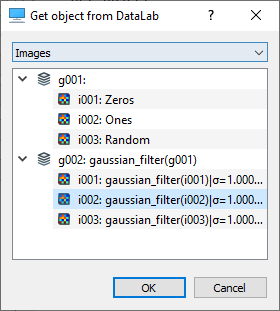
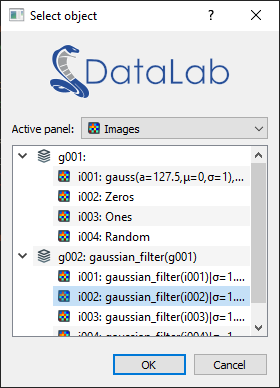
Added french translation

Changed region(s): [[0.0, 0.0, 1.0, 1.0], [0.8857, 0.0289, 0.9429, 0.0579], [0.7429, 0.0289, 0.7714, 0.0579]]

diff --git a/cdlclient/widgets/objectdialog.py b/cdlclient/widgets/objectdialog.py
@@ -25,8 +25,9 @@ from qtpy import QtCore as QC
 from qtpy import QtGui as QG
 from qtpy import QtWidgets as QW
 
-from cdlclient.widgets import svg_icons
-from cdlclient.widgets.qthelpers import block_signals, svgtext_to_icon
+from cdlclient.config import _
+from cdlclient.qthelpers import block_signals, svgtext_to_icon
+from cdlclient.widgets import datalab_banner, svg_icons
 
 if TYPE_CHECKING:  # pragma: no cover
     from cdlclient import SimpleRemoteProxy
@@ -164,27 +165,47 @@ class GetObjectDialog(QW.QDialog):
     def __init__(
         self,
         parent: QW.QWidget,
-        title: str,
         proxy: SimpleRemoteProxy,
+        title: str | None = None,
     ) -> None:
         super().__init__(parent)
         self.__proxy = proxy
         self.__current_object_uuid: str | None = None
-        self.setWindowTitle(title)
+        self.setWindowTitle(_("Select object") if title is None else title)
         vlayout = QW.QVBoxLayout()
         self.setLayout(vlayout)
 
+        logo_label = QW.QLabel()
+        pixmap = QG.QPixmap()
+        pixmap.loadFromData(QC.QByteArray.fromBase64(datalab_banner.DATA))
+        logo_label.setPixmap(pixmap)
+        logo_label.setAlignment(QC.Qt.AlignCenter)
+
+        panelgroup = QW.QWidget()
+        panellayout = QW.QHBoxLayout()
+        panellayout.setContentsMargins(0, 0, 0, 0)
+        # panellayout.setAlignment(QC.Qt.AlignCenter)
+        panelgroup.setLayout(panellayout)
+
         panelcombo = QW.QComboBox()
-        panelcombo.addItems(["Signals", "Images"])
+        panelcombo.addItem(svgtext_to_icon(svg_icons.SIGNAL), _("Signals"))
+        panelcombo.addItem(svgtext_to_icon(svg_icons.IMAGE), _("Images"))
         panelcombo.setCurrentIndex(0 if proxy.get_current_panel() == "signal" else 1)
         panelcombo.currentIndexChanged.connect(self.__change_panel)
+
+        panellabel = QW.QLabel(_("Active panel:"))
+        panellayout.addWidget(panellabel)
+        panellayout.addWidget(panelcombo)
+        panellayout.setStretch(1, 1)
 
         self.tree = SimpleObjectTree(parent)
         self.tree.init_from(proxy)
         self.tree.SIG_ITEM_DOUBLECLICKED.connect(lambda oid: self.accept())
         self.tree.itemSelectionChanged.connect(self.current_object_changed)
 
-        vlayout.addWidget(panelcombo)
+        vlayout.addWidget(logo_label)
+        vlayout.addSpacing(10)
+        vlayout.addWidget(panelgroup)
         vlayout.addWidget(self.tree)
 
         bbox = QW.QDialogButtonBox(QW.QDialogButtonBox.Ok | QW.QDialogButtonBox.Cancel)
@@ -209,5 +230,6 @@ class GetObjectDialog(QW.QDialog):
     def current_object_changed(self) -> None:
         """Item selection has changed"""
         self.__current_object_uuid = self.tree.get_current_item_id()
+        self.ok_btn.setEnabled(bool(self.__current_object_uuid))
         self.ok_btn.setEnabled(bool(self.__current_object_uuid))
         self.ok_btn.setEnabled(bool(self.__current_object_uuid))

diff --git a/cdlclient/widgets/connection.py b/cdlclient/widgets/connection.py
@@ -21,10 +21,11 @@ from qtpy import QtCore as QC
 from qtpy import QtGui as QG
 from qtpy import QtWidgets as QW
 
+from cdlclient.config import _
 from cdlclient.widgets import datalab_banner
 
 
-class DataLabConnectionThread(QC.QThread):
+class ConnectionThread(QC.QThread):
     """DataLab Connection thread"""
 
     SIG_CONNECTION_OK = QC.Signal()
@@ -54,7 +55,7 @@ class ConnectionDialog(QW.QDialog):
     def __init__(self, connect_callback: Callable, parent: QW.QWidget = None) -> None:
         super().__init__(parent)
         win32_fix_title_bar_background(self)
-        self.setWindowTitle("Connection to DataLab")
+        self.setWindowTitle(_("Connection to DataLab"))
         self.resize(300, 50)
         self.host_label = QW.QLabel()
         pixmap = QG.QPixmap()
@@ -66,7 +67,7 @@ class ConnectionDialog(QW.QDialog):
         status = QW.QWidget()
         status_layout = QW.QHBoxLayout()
         status.setLayout(status_layout)
-        self.status_label = QW.QLabel("Waiting for connection...")
+        self.status_label = QW.QLabel(_("Waiting for connection..."))
         self.status_icon = QW.QLabel()
         status_layout.addWidget(self.status_icon)
         status_layout.addWidget(self.status_label)
@@ -77,7 +78,7 @@ class ConnectionDialog(QW.QDialog):
         layout.addWidget(self.progress_bar)
         layout.addWidget(status)
         self.setLayout(layout)
-        self.thread = DataLabConnectionThread(connect_callback)
+        self.thread = ConnectionThread(connect_callback)
         self.thread.SIG_CONNECTION_OK.connect(self.on_connection_successful)
         self.thread.SIG_CONNECTION_KO.connect(self.on_connection_failed)
         button_box = QW.QDialogButtonBox(QW.QDialogButtonBox.Cancel)
@@ -97,7 +98,7 @@ class ConnectionDialog(QW.QDialog):
         """Connect to server"""
         self.progress_bar.setRange(0, 0)
         self.set_status_icon("BrowserReload")
-        self.status_label.setText("Connecting to server...")
+        self.status_label.setText(_("Connecting to server..."))
         self.thread.start()
 
     def on_connection_successful(self) -> None:
@@ -105,7 +106,7 @@ class ConnectionDialog(QW.QDialog):
         self.progress_bar.setRange(0, 1)
         self.progress_bar.setValue(1)
         self.set_status_icon("DialogApplyButton")
-        self.status_label.setText("Connection successful!")
+        self.status_label.setText(_("Connection successful!"))
         QC.QTimer.singleShot(1000, self.accept)
 
     def on_connection_failed(self) -> None:
@@ -113,7 +114,7 @@ class ConnectionDialog(QW.QDialog):
         self.progress_bar.setRange(0, 1)
         self.progress_bar.setValue(1)
         self.set_status_icon("MessageBoxCritical")
-        self.status_label.setText("Connection failed.")
+        self.status_label.setText(_("Connection failed."))
         QC.QTimer.singleShot(2000, self.reject)
 
 

diff --git a/cdlclient/tests/remoteclient_base.py b/cdlclient/tests/remoteclient_base.py
@@ -16,6 +16,8 @@ from guidata.qthelpers import get_std_icon, win32_fix_title_bar_background
 from guidata.widgets.codeeditor import CodeEditor
 from qtpy import QtWidgets as QW
 
+from cdlclient.config import _
+
 
 class HostWidget(QW.QWidget):
     """Host widget: menu with action buttons, log viewer"""
@@ -83,7 +85,7 @@ class AbstractClientWindow(QW.QMainWindow, metaclass=AbstractClientWindowMeta):
     def __init__(self):
         super().__init__()
         win32_fix_title_bar_background(self)
-        self.setWindowTitle("Host application")
+        self.setWindowTitle(_("Host application"))
         self.setWindowIcon(get_std_icon("ComputerIcon"))
         self.cdl = None  # CDLMainWindow instance
         self.host = HostWidget(self)
@@ -110,12 +112,12 @@ class AbstractClientWindow(QW.QMainWindow, metaclass=AbstractClientWindowMeta):
         self.host.add_label(self.PURPOSE)
         add_btn = self.host.add_button
         add_btn(self.INIT_BUTTON_LABEL, self.init_cdl, 10, "DialogApplyButton")
-        add_btn("Raise window", self.raise_cdl, 0, "FileDialogToParent")
+        add_btn(_("Raise window"), self.raise_cdl, 0, "FileDialogToParent")
         self.add_additional_buttons()
-        add_btn("Add signal objects", self.add_signals, 10, "CommandLink")
-        add_btn("Add image objects", self.add_images, 0, "CommandLink")
-        add_btn("Remove all objects", self.remove_all, 5, "MessageBoxWarning")
-        add_btn("Close DataLab", self.close_cdl, 10, "DialogCloseButton")
+        add_btn(_("Add signal objects"), self.add_signals, 10, "CommandLink")
+        add_btn(_("Add image objects"), self.add_images, 0, "CommandLink")
+        add_btn(_("Remove all objects"), self.remove_all, 5, "MessageBoxWarning")
+        add_btn(_("Close DataLab"), self.close_cdl, 10, "DialogCloseButton")
 
     def add_additional_buttons(self):
         """Add additional buttons"""
@@ -143,5 +145,8 @@ class AbstractClientWindow(QW.QMainWindow, metaclass=AbstractClientWindowMeta):
         """Add images to DataLab"""
 
     @abc.abstractmethod
+    def remove_all(self):
+        """Remove all objects from DataLab"""
+
     def remove_all(self):
         """Remove all objects from DataLab"""

diff --git a/cdlclient/tests/remoteclient_app.py b/cdlclient/tests/remoteclient_app.py
@@ -23,6 +23,7 @@ from guidata.qthelpers import qt_app_context, qt_wait
 from qtpy import QtWidgets as QW
 
 from cdlclient import SimpleRemoteProxy
+from cdlclient.config import _
 from cdlclient.tests.remoteclient_base import AbstractClientWindow
 from cdlclient.tests.remoteclient_unit import multiple_commands
 from cdlclient.widgets import ConnectionDialog, GetObjectDialog
@@ -58,8 +59,8 @@ def try_send_command():
 class HostWindow(AbstractClientWindow):
     """Test main view"""
 
-    PURPOSE = "This the client application, which connects to DataLab."
-    INIT_BUTTON_LABEL = "Connect to DataLab"
+    PURPOSE = _("This the client application, which connects to DataLab.")
+    INIT_BUTTON_LABEL = _("Connect to DataLab")
     SIG_TITLES = ("Oscilloscope", "Digitizer", "Radiometer", "Voltmeter", "Sensor")
     IMA_TITLES = (
         "Camera",
@@ -96,11 +97,11 @@ class HostWindow(AbstractClientWindow):
     def add_additional_buttons(self):
         """Add additional buttons"""
         add_btn = self.host.add_button
-        add_btn("Execute multiple commands", self.exec_multiple_cmd, 10)
-        add_btn("Get object titles", self.get_object_titles, 10)
-        add_btn("Get object uuids", self.get_object_uuids, 10)
-        add_btn("Get object", self.get_object)
-        add_btn("Get object using dialog box", self.get_object_dialog)
+        add_btn(_("Execute multiple commands"), self.exec_multiple_cmd, 10)
+        add_btn(_("Get object titles"), self.get_object_titles, 10)
+        add_btn(_("Get object uuids"), self.get_object_uuids, 10)
+        add_btn(_("Get object"), self.get_object)
+        add_btn(_("Get object using dialog box"), self.get_object_dialog)
 
     @try_send_command()
     def exec_multiple_cmd(self):
@@ -150,7 +151,7 @@ class HostWindow(AbstractClientWindow):
     def get_object_dialog(self):
         """Get object (signal/image) using dialog box"""
         if self.cdl is not None:
-            dialog = GetObjectDialog(self, "Get object from DataLab", self.cdl)
+            dialog = GetObjectDialog(self, self.cdl)
             if dialog.exec():
                 uuid = dialog.get_current_object_uuid()
                 obj = self.cdl.get_object(uuid)

diff --git a/cdlclient/qthelpers.py b/cdlclient/qthelpers.py
@@ -1,4 +1,8 @@
 # -*- coding: utf-8 -*-
+#
+# Licensed under the terms of the BSD 3-Clause
+# (see cdlclient/LICENSE for details)
+
 """Qt helpers"""
 
 from __future__ import annotations
@@ -13,8 +17,9 @@ from qtpy import QtGui as QG
 from qtpy import QtSvg as QS
 from qtpy import QtWidgets as QW
 
-PKG_PATH = osp.join(osp.dirname(__file__), os.pardir, os.pardir)
-WIDGETS_PATH = osp.join(PKG_PATH, "cdlclient", "widgets")
+from cdlclient.config import MOD_PATH
+
+WIDGETS_PATH = osp.join(MOD_PATH, "widgets")
 
 
 def svgtext_to_icon(text: str) -> QG.QIcon:
@@ -77,12 +82,12 @@ def imagefile_to_python_module(filename: str, destmod: str) -> None:
     """
     data = imagefile_to_base64(filename)
     destmod_path = osp.join(WIDGETS_PATH, destmod + ".py")
+    if osp.isfile(destmod_path):
+        os.remove(destmod_path)
     with open(destmod_path, "wb") as fn:
         fn.write("# -*- coding: utf-8 -*-\n\n".encode("utf-8"))
         fn.write("# pylint: skip-file\n\n".encode("utf-8"))
         fn.write("DATA = b'".encode("utf-8"))
-        fn.write(data)
-        fn.write("'".encode("utf-8"))
         fn.write(data)
         fn.write("'".encode("utf-8"))
 
@@ -97,5 +102,7 @@ def block_signals(widget: QW.QWidget, enable: bool) -> Generator[None, None, Non
         yield
     finally:
         if enable:
+            widget.blockSignals(False)
+            widget.blockSignals(False)
             widget.blockSignals(False)
             widget.blockSignals(False)

diff --git a/cdlclient/tests/imagefile_to_code.py b/cdlclient/tests/imagefile_to_code.py
@@ -3,6 +3,7 @@
 
 # guitest: skip
 
+import os
 import os.path as osp
 
 from guidata.qthelpers import qt_app_context
@@ -10,9 +11,10 @@ from qtpy import QtCore as QC
 from qtpy import QtGui as QG
 from qtpy import QtWidgets as QW
 
-from cdlclient.widgets.qthelpers import PKG_PATH, imagefile_to_python_module
+from cdlclient.config import MOD_NAME, MOD_PATH
+from cdlclient.qthelpers import imagefile_to_python_module
 
-RES_PATH = osp.join(PKG_PATH, "resources")
+RES_PATH = osp.join(MOD_PATH, os.pardir, "resources")
 
 
 def test_conv(filename: str, destmod: str) -> None:
@@ -30,7 +32,7 @@ def test_conv(filename: str, destmod: str) -> None:
         label1.setPixmap(QG.QPixmap(filename))
         label2 = QW.QLabel()
         imagefile_to_python_module(filename, destmod)
-        mod = __import__("cdlclient.widgets." + destmod, fromlist=[destmod])
+        mod = __import__(f"{MOD_NAME}.widgets.{destmod}", fromlist=[destmod])
         pixmap = QG.QPixmap()
         pixmap.loadFromData(QC.QByteArray.fromBase64(mod.DATA))
         label2.setPixmap(pixmap)
@@ -40,5 +42,4 @@ def test_conv(filename: str, destmod: str) -> None:
 
 
 if __name__ == "__main__":
-    test_conv(osp.join(RES_PATH, "DataLab-Banner-200.png"), "datalab_banner")
     test_conv(osp.join(RES_PATH, "DataLab-Banner-200.png"), "datalab_banner")

diff --git a/cdlclient/config.py b/cdlclient/config.py
@@ -1,0 +1,22 @@
+# -*- coding: utf-8 -*-
+#
+# Licensed under the terms of the BSD 3-Clause
+# (see cdlclient/LICENSE for details)
+
+"""
+DataLab Simple Client configuration module
+------------------------------------------
+
+This module handles `DataLab Simple Client` configuration.
+"""
+
+from __future__ import annotations
+
+import os.path as osp
+
+from guidata import configtools
+
+MOD_NAME = "cdlclient"
+_ = configtools.get_translation(MOD_NAME)
+
+MOD_PATH = configtools.get_module_data_path(MOD_NAME)

diff --git a/cdlclient/tests/get_object_dialog.py b/cdlclient/tests/get_object_dialog.py
@@ -20,7 +20,7 @@ def test_dialog():
     proxy = SimpleRemoteProxy()
     proxy.connect()
     with qt_app_context():
-        dlg = GetObjectDialog(None, "Get object", proxy)
+        dlg = GetObjectDialog(None, proxy)
         if dlg.exec():
             obj_uuid = dlg.get_current_object_uuid()
             obj = proxy.get_object(obj_uuid)
